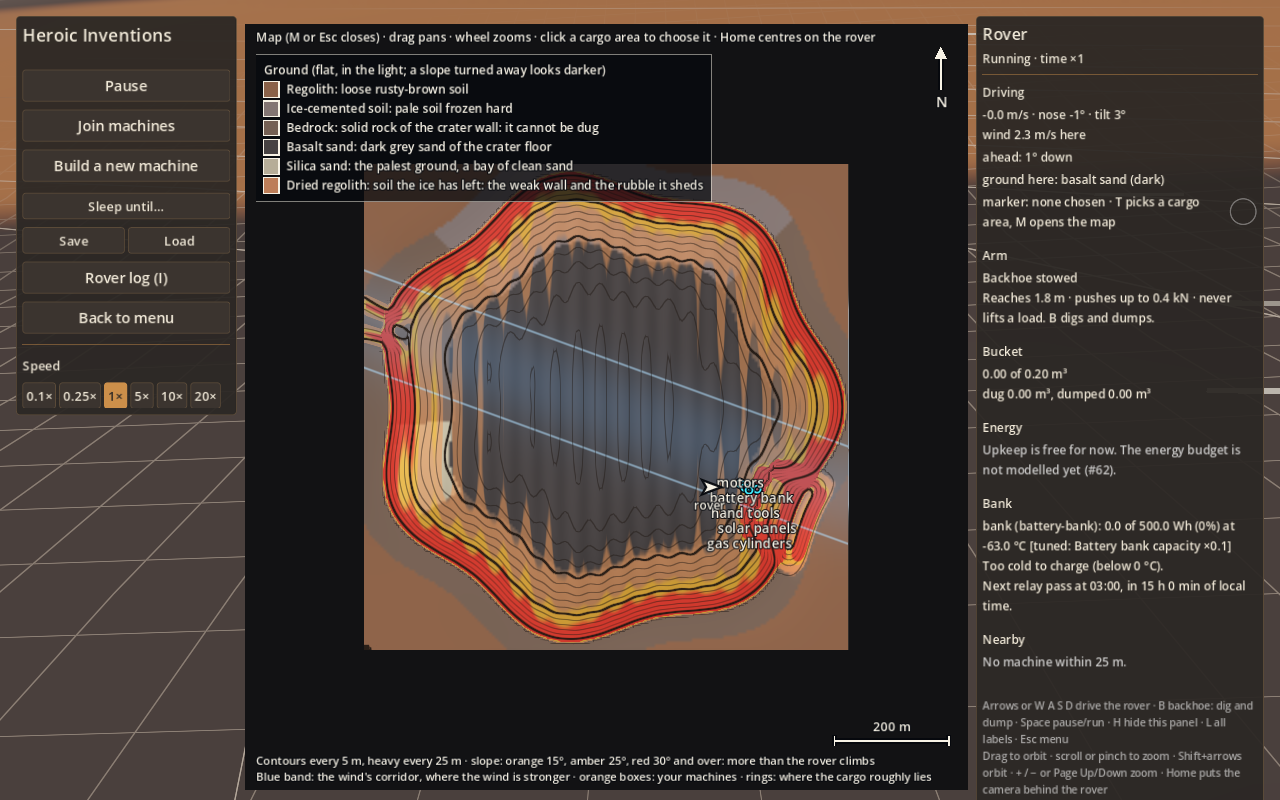
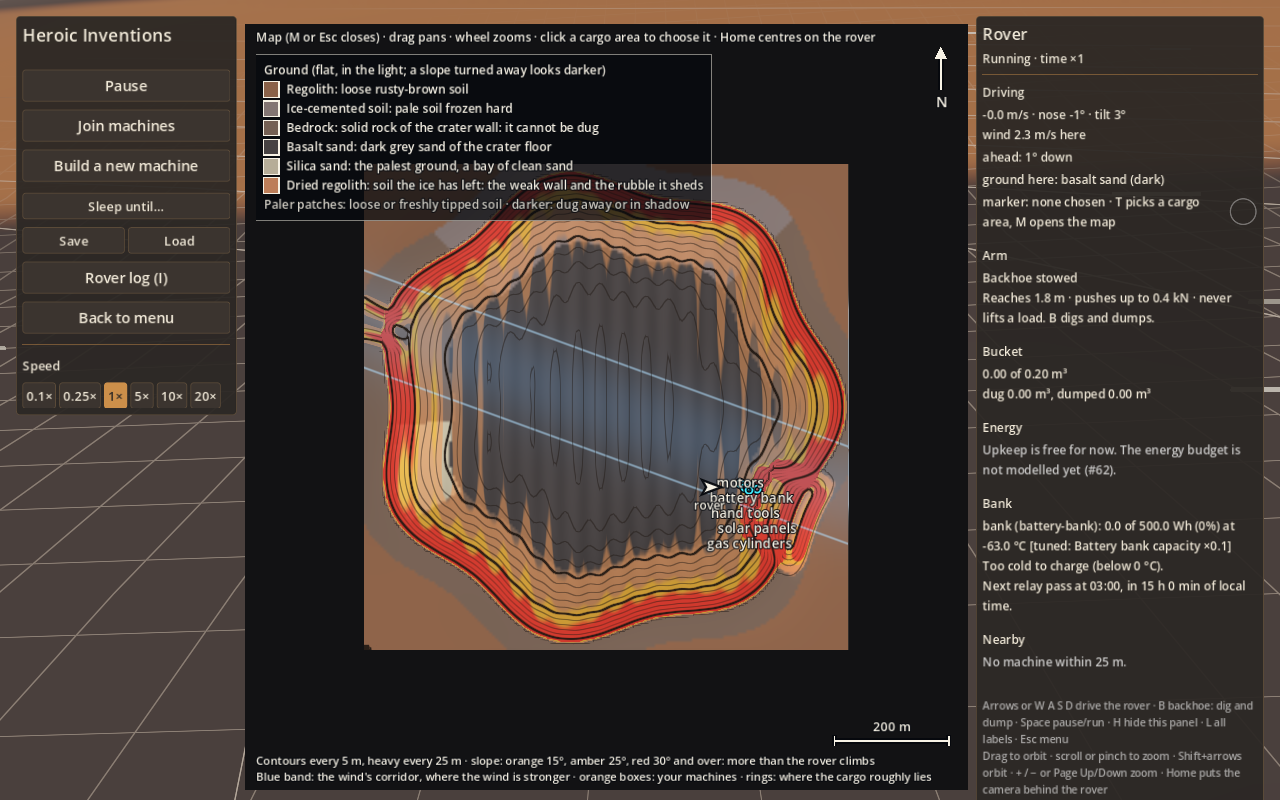
Key: a footer line for loose and dug ground (#243's wording); the neighbour test holds explicit drawn floors, no dead branch; docs

Changed region(s): [[0.1875, 0.25, 0.5625, 0.2812]]

diff --git a/tests/HeroicInventions.Sim.Tests/SoilLookTests.cs b/tests/HeroicInventions.Sim.Tests/SoilLookTests.cs
@@ -94,10 +94,9 @@ public class SoilLookTests
     [Fact]
     public void SoilsThatMeetOnTheMapStayApart()
     {
-        // Every pair of soils that touch on the victoria map (4-neighbours): worked from the table's drawn colours. A pair that differed by 50 or
-        // more in luminance before #244 (basalt and ice or silica; bedrock and silica or ice; regolith and ice) still does, and a pair that did not
-        // (bedrock and regolith 5 apart in luminance, basalt and bedrock, bedrock and sublimed) still differs by 30 or more in luminance or by 20
-        // or more bytes of colour. Bedrock and regolith are the same hue and differ in how grey they are: they were left as they were.
+        // Every pair of soils that touch on the victoria map (4-neighbours), from the table's drawn colours: each pair differs by 30 or more in
+        // luminance or by 20 or more bytes of colour (bedrock and regolith are 5 apart in luminance, the same hue, and differ in how grey they are:
+        // left as they were), and the floor (basalt sand) stays 30 under the wall and 50 under the pale soils.
         var t = Victoria();
         var pairs = new HashSet<(string, string)>();
         for (int j = 0; j < t.Nz; j++)
@@ -118,13 +117,16 @@ public class SoilLookTests
             return 255 * Math.Sqrt((ar - br) * (ar - br) + (ag - bg) * (ag - bg) + (ab - bb) * (ab - bb));
         }
         // the luminances this table had before #244 (drawn): the pairs that were 50 apart or more
-        var before = new Dictionary<string, double> { ["basalt-sand"] = 57.8, ["bedrock"] = 99.6, ["regolith"] = 103.9, ["sublimed-regolith"] = 136.7, ["ice-cemented-regolith"] = 139.4, ["silica-sand"] = 226 };
+        // Floors held in drawn (table) space, which is what a Sim test can see. Ice and silica are NOT held here: the ground renders ice glossy and
+        // silica tone-mapped, so their drawn gaps to bedrock (18, 73) say little; their measured separations from bedrock (55 and 66) were taken from
+        // frames by hand and are recorded in docs/art-direction.md 12.17; no test measures a frame.
+        Assert.True(DrawnLuminance("bedrock") - DrawnLuminance("basalt-sand") >= 30, "the floor against the wall");
+        foreach (var pale in new[] { "ice-cemented-regolith", "silica-sand" })
+            Assert.True(DrawnLuminance(pale) - DrawnLuminance("basalt-sand") >= 50, $"the floor against {pale}");
         foreach (var (a, b) in pairs)
         {
             double gap = Math.Abs(DrawnLuminance(a) - DrawnLuminance(b));
             Assert.True(gap >= 30 || Distance(a, b) >= 20, $"{a} / {b}: {gap:0} apart in luminance, {Distance(a, b):0} bytes of colour");
-            if (a is "ice-cemented-regolith" or "silica-sand" || b is "ice-cemented-regolith" or "silica-sand") continue;   // these two render brighter or dimmer than their table colour: measured in docs/art-direction.md 12.17
-            if (Math.Abs(before[a] - before[b]) >= 50) Assert.True(gap >= 50, $"{a} / {b}: {gap:0}");
         }
     }
 

diff --git a/game/scripts/NavMap.cs b/game/scripts/NavMap.cs
@@ -364,7 +364,9 @@ public partial class NavMap : Control
         string head = "Ground (flat, in the light; a slope turned away looks darker)";
         string Row(KeyEntry e) => $"{char.ToUpper(e.Name[0])}{e.Name[1..]}: {e.Note}";
         float width = Math.Max((float)Shaped(font, head, fontSize).GetSize().X, _key.Max(e => (float)Shaped(font, Row(e), fontSize).GetSize().X + swatch + 10)) + 2 * pad;
-        var box = new Rect2(14, 38, width, pad * 2 + rowH * (_key.Count + 1) - 4);
+        const string foot = "Paler patches: loose or freshly tipped soil · darker: dug away or in shadow";
+        width = Math.Max(width, (float)Shaped(font, foot, fontSize).GetSize().X + 2 * pad);
+        var box = new Rect2(14, 38, width, pad * 2 + rowH * (_key.Count + 2) - 4);
         _marks.DrawRect(box, new Color(Ink, 0.72f));
         _marks.DrawRect(box, new Color(Paper, 0.5f), false, 1);
         Text(font, head, new Vector2(box.Position.X + pad, box.Position.Y + pad + 15), fontSize, Paper);
@@ -376,6 +378,7 @@ public partial class NavMap : Control
             _marks.DrawRect(chip, _key[i].Colour);
             Text(font, Row(_key[i]), new Vector2(chip.End.X + 10, y + 15), fontSize, Paper);
         }
+        Text(font, foot, new Vector2(box.Position.X + pad, box.Position.Y + pad + rowH * (_key.Count + 1) + 15), fontSize, new Color(Paper, 0.85f));
     }
 
     /// <summary>The title line, the compass, the scale bar and the legend.</summary>

diff --git a/docs/art-direction.md b/docs/art-direction.md
@@ -598,7 +598,7 @@ Not candidates in the opening and easy worlds: night, dusk, real shadows' direct
 
 The owner's answer to the diagnosis (12.16, #241): the confusing ground is the **soil layers**, the dark grey-brown crater floor beside lighter brown or pale ground that stays the same as you drive. Chosen fix: a key and softer contrast. Colours only: **the physics is unchanged** (A/B trace below).
 
-**The key (#243).** The navigation map (M) now draws each soil in the colour the ground itself is drawn in (before, its base was a grey ramp by height) and lists the soils of the loaded map in a panel at its left: a swatch, the name in plain words and a few words of what it is ("Basalt sand: dark grey sand of the crater floor"; only soils that lie under at least one cell, so the 1 m dig-bank map has a key of one). The Driving section has a line under "ahead": `ground here: basalt sand (dark)`, with `, loose` where the soil lies loose (spoil, slumped ground). Where the rover has dug, the line reads the worked patch first, as the height does (`Terrain.SoilAt`, the same cells the terrain is drawn from; no second source). The words are in `SoilLook.WordsFor` (`src/HeroicInventions.Sim/Game/SoilLook.cs`), none of them a field name or an id (the goals panel's leak of that kind is #249). The one colour rule is `SoilLook.Drawn` (85% of the table colour's saturation, same hue and value, as the ground has always done): `TerrainView.SoilColour` calls it for the ground's cell colours, and NavMap calls `TerrainView.SoilColour` for its ground and for each swatch, so a swatch is the ground's colour by construction. The test (`racket/heroic/tests/soil-key-test.rkt`) works the colour out again from `materials.rktd` by its own arithmetic and checks, for all six soils, that the swatch, the colour the ground's own cell texture holds in the middle of a patch of that soil and the map's texel there are that colour to a byte; the Sim test (`SoilLookTests`) pins the six drawn colours by hand arithmetic and the neighbours' separation. The key shows the flat colour in the light; the map and the world shade it by slope (a slope turned away is darker), and the panel says so. `map print` prints each key entry (swatch, ground, map, name, note) and the scripted step `rover ground` prints the Driving line.
+**The key (#243).** The navigation map (M) now draws each soil in the colour the ground itself is drawn in (before, its base was a grey ramp by height) and lists the soils of the loaded map in a panel at its left: a swatch, the name in plain words and a few words of what it is ("Basalt sand: dark grey sand of the crater floor"; only soils that lie under at least one cell, so the 1 m dig-bank map has a key of one). The Driving section has a line under "ahead": `ground here: basalt sand (dark)`, with `, loose` where the soil lies loose (spoil, slumped ground). Where the rover has dug, the line reads the worked patch first, as the height does (`Terrain.SoilAt`, the same cells the terrain is drawn from; no second source). The words are in `SoilLook.WordsFor` (`src/HeroicInventions.Sim/Game/SoilLook.cs`), none of them a field name or an id (the goals panel's leak of that kind is #249). The one colour rule is `SoilLook.Drawn` (85% of the table colour's saturation, same hue and value, as the ground has always done): `TerrainView.SoilColour` calls it for the ground's cell colours, and NavMap calls `TerrainView.SoilColour` for its ground and for each swatch, so a swatch is the ground's colour by construction. The test (`racket/heroic/tests/soil-key-test.rkt`) works the colour out again from `materials.rktd` by its own arithmetic and checks, for all six soils, that the swatch, the colour the ground's own cell texture holds in the middle of a patch of that soil and the map's texel there are that colour to a byte; the Sim test (`SoilLookTests`) pins the six drawn colours by hand arithmetic and the neighbours' separation. The key shows the flat colour in the light; the map and the world shade it by slope (a slope turned away is darker), and the panel says so; its last line says what the paler and darker patches on the ground are (loose or freshly tipped soil is paler, dug-away ground and shadow darker), which closes the wording of #243's own Done-when (the slope colours are in the map's footer line and the Driving section's `ahead` line, #245). `map print` prints each key entry (swatch, ground, map, name, note) and the scripted step `rover ground` prints the Driving line.
 
 **The contrast (#244), the arithmetic first.** The drawn colour is the table colour (`materials.rktd`) at 85% saturation, and what the camera measures is that colour lit and tone-mapped: lighter for ice (it is drawn glossy, roughness 0.3: table 139 drawn, 175 measured), darker for the palest (silica table 226, 198 measured), about the same in the middle (basalt 57.8 drawn, 56.7 measured; sublimed 136.7, 137.1). So the table colours are scaled by target / measured (same hue and saturation), then measured again:
 
